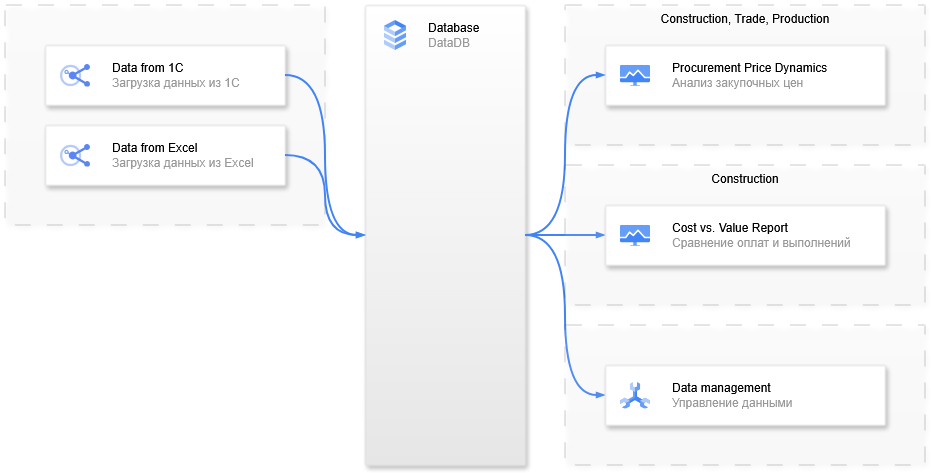
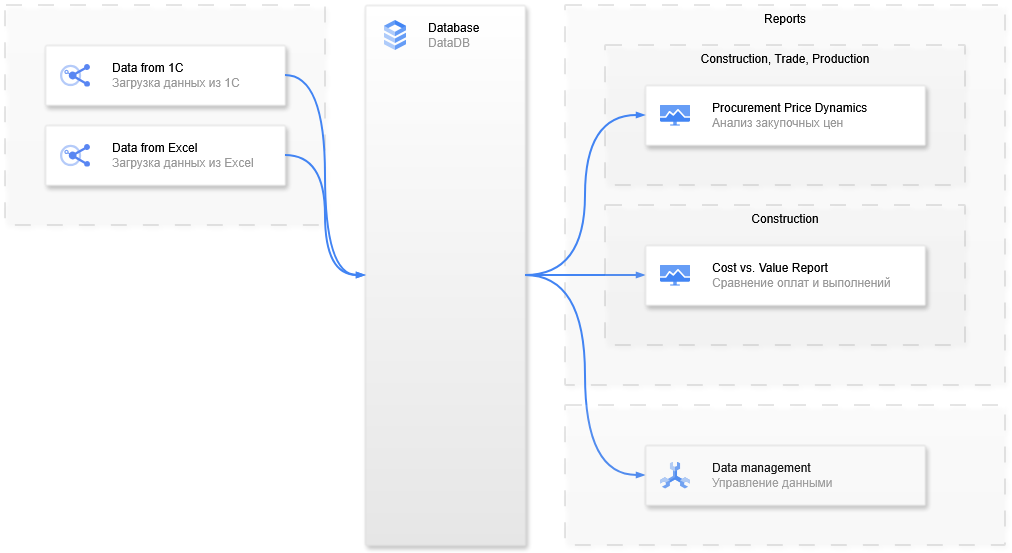
Finished with ObjectOfSaleInPurchaseInvoice

diff --git a/Reports/Infrastructure/Repositories/MSSql/MSSqlRepository.cs b/Reports/Infrastructure/Repositories/MSSql/MSSqlRepository.cs
@@ -12,34 +12,36 @@ namespace Reports.Infrastructure.Repositories.MSSql
         public async Task<IEnumerable<ProcurementPrice>> ProcurementPriceAsync()
         {
             string sql = "SELECT PurchaseInvoices.Date, PurchaseInvoices.Amount AS DocumentAmount, " +
-                "PurchaseGoodsAndServices.Quantity, Units.Name AS Unit, ProductsAndServices.Name AS ProductAndService, " +
-                "PurchaseGoodsAndServices.Price, PurchaseGoodsAndServices.Amount," +
-                "Contractors.Name AS Contractor, Warehouses.Name AS Warehouse " +
-                "FROM PurchaseInvoices " +
-                "LEFT JOIN PurchaseGoodsAndServices ON PurchaseInvoices.DocumentId = PurchaseGoodsAndServices.DocumentId " +
-                "LEFT JOIN Contracts ON PurchaseInvoices.ContractId = Contracts.ContractId " +
-                "LEFT JOIN Contractors ON Contracts.ContractorId = Contractors.ContractorId " +
-                "LEFT JOIN Warehouses ON PurchaseInvoices.WarehouseId = Warehouses.WarehouseId " +
-                "LEFT JOIN Units ON PurchaseGoodsAndServices.UnitId = Units.UnitId " +
-                "LEFT JOIN ProductsAndServices ON PurchaseGoodsAndServices.ProductAndServiceId = ProductsAndServices.ProductAndServiceId " +
-                "ORDER BY PurchaseInvoices.Date";
+                                "PurchaseGoodsAndServices.Quantity, Units.Name AS Unit, ProductsAndServices.Name AS ProductAndService, " +
+                                "PurchaseGoodsAndServices.Price, PurchaseGoodsAndServices.Amount," +
+                                "Contractors.Name AS Contractor, Warehouses.Name AS Warehouse " +
+                            "FROM PurchaseInvoices " +
+                            "LEFT JOIN PurchaseGoodsAndServices ON PurchaseInvoices.DocumentId = PurchaseGoodsAndServices.DocumentId " +
+                            "LEFT JOIN Contracts ON PurchaseInvoices.ContractId = Contracts.ContractId " +
+                            "LEFT JOIN Contractors ON Contracts.ContractorId = Contractors.ContractorId " +
+                            "LEFT JOIN Warehouses ON PurchaseInvoices.WarehouseId = Warehouses.WarehouseId " +
+                            "LEFT JOIN Units ON PurchaseGoodsAndServices.UnitId = Units.UnitId " +
+                            "LEFT JOIN ProductsAndServices ON PurchaseGoodsAndServices.ProductAndServiceId = ProductsAndServices.ProductAndServiceId " +
+                            "ORDER BY PurchaseInvoices.Date";
             return await _dbConnection.QueryAsync<ProcurementPrice>(sql);
         }
 
         public async Task<IEnumerable<CostVsValue>> CostVsValueAsync()
         {
-            string sql = "SELECT PurchaseInvoices.Date, PurchaseInvoices.Amount AS DocumentAmount, " +
-                "PurchaseGoodsAndServices.Quantity, Units.Name AS Unit, ProductsAndServices.Name AS ProductAndService, " +
-                "PurchaseGoodsAndServices.Price, PurchaseGoodsAndServices.Amount," +
-                "Contractors.Name AS Contractor, Warehouses.Name AS Warehouse " +
-                "FROM PurchaseInvoices " +
-                "LEFT JOIN PurchaseGoodsAndServices ON PurchaseInvoices.DocumentId = PurchaseGoodsAndServices.DocumentId " +
-                "LEFT JOIN Contracts ON PurchaseInvoices.ContractId = Contracts.ContractId " +
-                "LEFT JOIN Contractors ON Contracts.ContractorId = Contractors.ContractorId " +
-                "LEFT JOIN Warehouses ON PurchaseInvoices.WarehouseId = Warehouses.WarehouseId " +
-                "LEFT JOIN Units ON PurchaseGoodsAndServices.UnitId = Units.UnitId " +
-                "LEFT JOIN ProductsAndServices ON PurchaseGoodsAndServices.ProductAndServiceId = ProductsAndServices.ProductAndServiceId " +
-                "ORDER BY PurchaseInvoices.Date";
+            string sql = "WITH Cost AS (SELECT SUM(PurchasePayments.Amount) AS PaymentsAmount, YEAR(PurchasePayments.Date) AS [Year], " +
+                                "MONTH(PurchasePayments.Date) AS [Month], ObjectOfSaleInPurchasePayments.ComplexProperty " +
+                            "FROM PurchasePayments " +
+                            "INNER JOIN ObjectOfSaleInPurchasePayments ON PurchasePayments.DocumentId = ObjectOfSaleInPurchasePayments.DocumentId " +
+                            "GROUP BY ObjectOfSaleInPurchasePayments.ComplexProperty, YEAR(PurchasePayments.Date), MONTH(PurchasePayments.Date)), " +
+                         "[Value] AS (SELECT SUM(PurchaseInvoices.Amount) AS InvoicesAmount, YEAR(PurchaseInvoices.Date) AS [Year], " +
+                            "MONTH(PurchaseInvoices.Date) AS [Month], ObjectOfSaleInPurchaseInvoices.ComplexProperty " +
+                            "FROM PurchaseInvoices " +
+                            "INNER JOIN ObjectOfSaleInPurchaseInvoices ON PurchaseInvoices.DocumentId = ObjectOfSaleInPurchaseInvoices.DocumentId " +
+                            "GROUP BY ObjectOfSaleInPurchaseInvoices.ComplexProperty, YEAR(PurchaseInvoices.Date), MONTH(PurchaseInvoices.Date)) " +
+                
+                         "SELECT Cost.PaymentsAmount, [Value].InvoicesAmount, Cost.[Year], Cost.[Month], Cost.ComplexProperty " +
+                            "FROM Cost " +
+                            "INNER JOIN [Value] ON Cost.ComplexProperty = [Value].ComplexProperty AND Cost.[Year] = [Value].[Year] AND Cost.[Month] = [Value].[Month]";
             return await _dbConnection.QueryAsync<CostVsValue>(sql);
         }
     }

diff --git a/DataFromExcel/Infrastructure/DataSource/Excel/GetDataExcel.cs b/DataFromExcel/Infrastructure/DataSource/Excel/GetDataExcel.cs
@@ -45,7 +45,8 @@ namespace DataFromExcel.Infrastructure.DataSource.Excel
                 DocumentId = row.Field<string>("DocumentId"),
                 ContractId = row.Field<string>("ContractId"),
                 Property = row.Field<string>("Property"),
-                CostItem = row.Field<string>("CostItem")
+                CostItem = row.Field<string>("CostItem"),
+                ComplexProperty = row.Field<string>("ComplexProperty")
             });
         }
 
@@ -80,6 +81,38 @@ namespace DataFromExcel.Infrastructure.DataSource.Excel
                 Property = row.Field<string>("Property"),
                 CostItem = row.Field<string>("CostItem"),
                 Amount = row.Field<decimal>("Amount")
+            });
+        }
+
+        public IEnumerable<ObjectOfSaleInPurchaseInvoice> ObjectOfSaleInPurchaseInvoice()
+        {
+            FileInfo fileInfo = new(filePath + "\\ObjectOfSaleInPurchaseInvoice.xlsx");
+            using var package = new ExcelPackage(fileInfo);
+            var sheet = package.Workbook.Worksheets[Name: "ObjectOfSaleInPurchaseInvoice"];
+            DataTable dataTable = new();
+
+            for (int i = sheet.Dimension.Start.Column; i <= sheet.Dimension.End.Column; i++)
+            {
+                dataTable.Columns.Add(sheet.Cells[1, i].Value.ToString());
+            }
+
+            for (int i = 2; i <= sheet.Dimension.End.Row; i++)
+            {
+                DataRow dataRow = dataTable.NewRow();
+                for (int j = 1; j <= sheet.Dimension.End.Column; j++)
+                {
+                    dataRow[j - 1] = sheet.Cells[i, j].Value;
+                }
+                dataTable.Rows.Add(dataRow);
+            }
+
+            return dataTable.AsEnumerable().Select(row => new ObjectOfSaleInPurchaseInvoice
+            {
+                DocumentId = row.Field<string>("DocumentId"),
+                ContractId = row.Field<string>("ContractId"),
+                Property = row.Field<string>("Property"),
+                CostItem = row.Field<string>("CostItem"),
+                ComplexProperty = row.Field<string>("ComplexProperty")
             });
         }
     }

diff --git a/DataFromExcel/Infrastructure/Repositories/MSSql/MSSqlRepository.cs b/DataFromExcel/Infrastructure/Repositories/MSSql/MSSqlRepository.cs
@@ -8,17 +8,24 @@ namespace DataFromExcel.Infrastructure.Repositories.MSSql
     {
         private readonly ObjectOfSaleContext _dataContext = dataContext;
 
-        public async Task ObjectOfSaleInPurchasePaymentAsync(IEnumerable<ObjectOfSaleInPurchasePayment> objectOfSaleInPurchasePayments)
+        public async Task ObjectOfSaleInPurchasePaymentAsync(IEnumerable<ObjectOfSaleInPurchasePayment> objectOfSaleInPurchasePayment)
         {
             await _dataContext.Database.ExecuteSqlRawAsync("TRUNCATE TABLE ObjectOfSaleInPurchasePayments");
-            await _dataContext.ObjectOfSaleInPurchasePayments.AddRangeAsync(objectOfSaleInPurchasePayments);
+            await _dataContext.ObjectOfSaleInPurchasePayments.AddRangeAsync(objectOfSaleInPurchasePayment);
             await _dataContext.SaveChangesAsync();
         }
 
-        public async Task ObjectOfSaleInContractAsync(IEnumerable<ObjectOfSaleInContract> objectOfSaleInContracts)
+        public async Task ObjectOfSaleInContractAsync(IEnumerable<ObjectOfSaleInContract> objectOfSaleInContract)
         {
             await _dataContext.Database.ExecuteSqlRawAsync("TRUNCATE TABLE ObjectOfSaleInContracts");
-            await _dataContext.ObjectOfSaleInContracts.AddRangeAsync(objectOfSaleInContracts);
+            await _dataContext.ObjectOfSaleInContracts.AddRangeAsync(objectOfSaleInContract);
+            await _dataContext.SaveChangesAsync();
+        }
+
+        public async Task ObjectOfSaleInPurchaseInvoiceAsync(IEnumerable<ObjectOfSaleInPurchaseInvoice> оbjectOfSaleInPurchaseInvoice)
+        {
+            await _dataContext.Database.ExecuteSqlRawAsync("TRUNCATE TABLE ObjectOfSaleInPurchaseInvoices");
+            await _dataContext.ObjectOfSaleInPurchaseInvoices.AddRangeAsync(оbjectOfSaleInPurchaseInvoice);
             await _dataContext.SaveChangesAsync();
         }
     }

diff --git a/DataFromExcel/Infrastructure/Repositories/MSSql/Migrations/20260731101558_AddObjectOfSaleInPurchaseInvoices.Designer.cs b/DataFromExcel/Infrastructure/Repositories/MSSql/Migrations/20260731101558_AddObjectOfSaleInPurchaseInvoices.Designer.cs
@@ -3,6 +3,7 @@ using DataFromExcel.Infrastructure.Repositories;
 using Microsoft.EntityFrameworkCore;
 using Microsoft.EntityFrameworkCore.Infrastructure;
 using Microsoft.EntityFrameworkCore.Metadata;
+using Microsoft.EntityFrameworkCore.Migrations;
 using Microsoft.EntityFrameworkCore.Storage.ValueConversion;
 
 #nullable disable
@@ -10,9 +11,11 @@ using Microsoft.EntityFrameworkCore.Storage.ValueConversion;
 namespace DataFromExcel.Infrastructure.Repositories.MSSql.Migrations
 {
     [DbContext(typeof(ObjectOfSaleContext))]
-    partial class ObjectOfSaleContextModelSnapshot : ModelSnapshot
+    [Migration("20260731101558_AddObjectOfSaleInPurchaseInvoices")]
+    partial class AddObjectOfSaleInPurchaseInvoices
     {
-        protected override void BuildModel(ModelBuilder modelBuilder)
+        /// <inheritdoc />
+        protected override void BuildTargetModel(ModelBuilder modelBuilder)
         {
 #pragma warning disable 612, 618
             modelBuilder
@@ -45,9 +48,6 @@ namespace DataFromExcel.Infrastructure.Repositories.MSSql.Migrations
                     b.Property<string>("DocumentId")
                         .HasColumnType("nvarchar(450)");
 
-                    b.Property<string>("ComplexProperty")
-                        .HasColumnType("nvarchar(max)");
-
                     b.Property<string>("ContractId")
                         .HasColumnType("nvarchar(max)");
 
@@ -66,9 +66,6 @@ namespace DataFromExcel.Infrastructure.Repositories.MSSql.Migrations
                 {
                     b.Property<string>("DocumentId")
                         .HasColumnType("nvarchar(450)");
-
-                    b.Property<string>("ComplexProperty")
-                        .HasColumnType("nvarchar(max)");
 
                     b.Property<string>("ContractId")
                         .HasColumnType("nvarchar(max)");

diff --git a/DataFromExcel/Infrastructure/Repositories/MSSql/Migrations/20260731101558_AddObjectOfSaleInPurchaseInvoices.cs b/DataFromExcel/Infrastructure/Repositories/MSSql/Migrations/20260731101558_AddObjectOfSaleInPurchaseInvoices.cs
@@ -1,0 +1,35 @@
+using Microsoft.EntityFrameworkCore.Migrations;
+
+#nullable disable
+
+namespace DataFromExcel.Infrastructure.Repositories.MSSql.Migrations
+{
+    /// <inheritdoc />
+    public partial class AddObjectOfSaleInPurchaseInvoices : Migration
+    {
+        /// <inheritdoc />
+        protected override void Up(MigrationBuilder migrationBuilder)
+        {
+            migrationBuilder.CreateTable(
+                name: "ObjectOfSaleInPurchaseInvoices",
+                columns: table => new
+                {
+                    DocumentId = table.Column<string>(type: "nvarchar(450)", nullable: false),
+                    ContractId = table.Column<string>(type: "nvarchar(max)", nullable: true),
+                    Property = table.Column<string>(type: "nvarchar(max)", nullable: true),
+                    CostItem = table.Column<string>(type: "nvarchar(max)", nullable: true)
+                },
+                constraints: table =>
+                {
+                    table.PrimaryKey("PK_ObjectOfSaleInPurchaseInvoices", x => x.DocumentId);
+                });
+        }
+
+        /// <inheritdoc />
+        protected override void Down(MigrationBuilder migrationBuilder)
+        {
+            migrationBuilder.DropTable(
+                name: "ObjectOfSaleInPurchaseInvoices");
+        }
+    }
+}

diff --git a/DataFromExcel/Infrastructure/Repositories/MSSql/Migrations/20260731173813_AddComplexProperty.cs b/DataFromExcel/Infrastructure/Repositories/MSSql/Migrations/20260731173813_AddComplexProperty.cs
@@ -1,0 +1,38 @@
+using Microsoft.EntityFrameworkCore.Migrations;
+
+#nullable disable
+
+namespace DataFromExcel.Infrastructure.Repositories.MSSql.Migrations
+{
+    /// <inheritdoc />
+    public partial class AddComplexProperty : Migration
+    {
+        /// <inheritdoc />
+        protected override void Up(MigrationBuilder migrationBuilder)
+        {
+            migrationBuilder.AddColumn<string>(
+                name: "ComplexProperty",
+                table: "ObjectOfSaleInPurchasePayments",
+                type: "nvarchar(max)",
+                nullable: true);
+
+            migrationBuilder.AddColumn<string>(
+                name: "ComplexProperty",
+                table: "ObjectOfSaleInPurchaseInvoices",
+                type: "nvarchar(max)",
+                nullable: true);
+        }
+
+        /// <inheritdoc />
+        protected override void Down(MigrationBuilder migrationBuilder)
+        {
+            migrationBuilder.DropColumn(
+                name: "ComplexProperty",
+                table: "ObjectOfSaleInPurchasePayments");
+
+            migrationBuilder.DropColumn(
+                name: "ComplexProperty",
+                table: "ObjectOfSaleInPurchaseInvoices");
+        }
+    }
+}

diff --git a/DataFromExcel/Infrastructure/Repositories/MSSql/Migrations/20260731173813_AddComplexProperty.Designer.cs b/DataFromExcel/Infrastructure/Repositories/MSSql/Migrations/20260731173813_AddComplexProperty.Designer.cs
@@ -3,6 +3,7 @@ using DataFromExcel.Infrastructure.Repositories;
 using Microsoft.EntityFrameworkCore;
 using Microsoft.EntityFrameworkCore.Infrastructure;
 using Microsoft.EntityFrameworkCore.Metadata;
+using Microsoft.EntityFrameworkCore.Migrations;
 using Microsoft.EntityFrameworkCore.Storage.ValueConversion;
 
 #nullable disable
@@ -10,9 +11,11 @@ using Microsoft.EntityFrameworkCore.Storage.ValueConversion;
 namespace DataFromExcel.Infrastructure.Repositories.MSSql.Migrations
 {
     [DbContext(typeof(ObjectOfSaleContext))]
-    partial class ObjectOfSaleContextModelSnapshot : ModelSnapshot
+    [Migration("20260731173813_AddComplexProperty")]
+    partial class AddComplexProperty
     {
-        protected override void BuildModel(ModelBuilder modelBuilder)
+        /// <inheritdoc />
+        protected override void BuildTargetModel(ModelBuilder modelBuilder)
         {
 #pragma warning disable 612, 618
             modelBuilder

diff --git a/DataManagement/Infrastructure/Repositories/MSSql/MSSqlRepository.cs b/DataManagement/Infrastructure/Repositories/MSSql/MSSqlRepository.cs
@@ -60,7 +60,8 @@ namespace DataManagement.Infrastructure.Repositories.MSSql
                             "LEFT JOIN Warehouses ON PurchaseInvoices.WarehouseId = Warehouses.WarehouseId " +
                             "LEFT JOIN ObjectOfSaleInContracts ON PurchaseInvoices.ContractId = ObjectOfSaleInContracts.ContractId " +
                             "LEFT JOIN ObjectOfSaleInPurchasePayments ON PurchaseInvoices.ContractId = ObjectOfSaleInPurchasePayments.ContractId) " +
-                         "SELECT* FROM AllProperty WHERE RowNum = 1";
+                         "SELECT* FROM AllProperty WHERE RowNum = 1 AND " +
+                         "NOT EXISTS ( SELECT * FROM ObjectOfSaleInPurchaseInvoices WHERE ObjectOfSaleInPurchaseInvoices.DocumentId = AllProperty.DocumentId)";
 
             return await _dbConnection.QueryAsync<AddObjectOfSaleInPurchaseInvoice>(sql);
         }

diff --git a/DataFromExcel/Application/Interfaces/ISaveData.cs b/DataFromExcel/Application/Interfaces/ISaveData.cs
@@ -4,7 +4,8 @@ namespace DataFromExcel.Application.Interfaces
 {
     public interface ISaveData
     {
-        Task ObjectOfSaleInPurchasePaymentAsync(IEnumerable<ObjectOfSaleInPurchasePayment> objectOfSaleInPurchasePayments);
-        Task ObjectOfSaleInContractAsync(IEnumerable<ObjectOfSaleInContract> objectOfSaleInContracts);
+        Task ObjectOfSaleInPurchasePaymentAsync(IEnumerable<ObjectOfSaleInPurchasePayment> objectOfSaleInPurchasePayment);
+        Task ObjectOfSaleInContractAsync(IEnumerable<ObjectOfSaleInContract> objectOfSaleInContract);
+        Task ObjectOfSaleInPurchaseInvoiceAsync(IEnumerable<ObjectOfSaleInPurchaseInvoice> objectOfSaleInPurchaseInvoice);
     }
 }

diff --git a/DataFromExcel/Application/Services/UpdateDataService.cs b/DataFromExcel/Application/Services/UpdateDataService.cs
@@ -18,5 +18,11 @@ namespace DataFromExcel.Application.Services
             var getObjectOfSaleInContract = _getData.ObjectOfSaleInContract();
             await _saveData.ObjectOfSaleInContractAsync(getObjectOfSaleInContract);
         }
+
+        public async Task ObjectOfSaleInPurchaseInvoiceAsync()
+        {
+            var getObjectOfSaleInPurchaseInvoice = _getData.ObjectOfSaleInPurchaseInvoice();
+            await _saveData.ObjectOfSaleInPurchaseInvoiceAsync(getObjectOfSaleInPurchaseInvoice);
+        }
     }
 }

diff --git a/DataFromExcel/Infrastructure/Repositories/ObjectOfSaleContext.cs b/DataFromExcel/Infrastructure/Repositories/ObjectOfSaleContext.cs
@@ -7,5 +7,6 @@ namespace DataFromExcel.Infrastructure.Repositories
     {
         public DbSet<ObjectOfSaleInPurchasePayment> ObjectOfSaleInPurchasePayments { get; set; }
         public DbSet<ObjectOfSaleInContract> ObjectOfSaleInContracts { get; set; }
+        public DbSet<ObjectOfSaleInPurchaseInvoice> ObjectOfSaleInPurchaseInvoices { get; set; }
     }
 }

diff --git a/DataFromExcel/Presentation/Controllers/UpdateDataController.cs b/DataFromExcel/Presentation/Controllers/UpdateDataController.cs
@@ -13,6 +13,7 @@ namespace DataFromExcel.Presentation.Controllers
         {
             await _updateDataService.ObjectOfSaleInPurchasePaymentAsync();
             await _updateDataService.ObjectOfSaleInContractAsync();
+            await _updateDataService.ObjectOfSaleInPurchaseInvoiceAsync();
             return NoContent();
         }
     }
